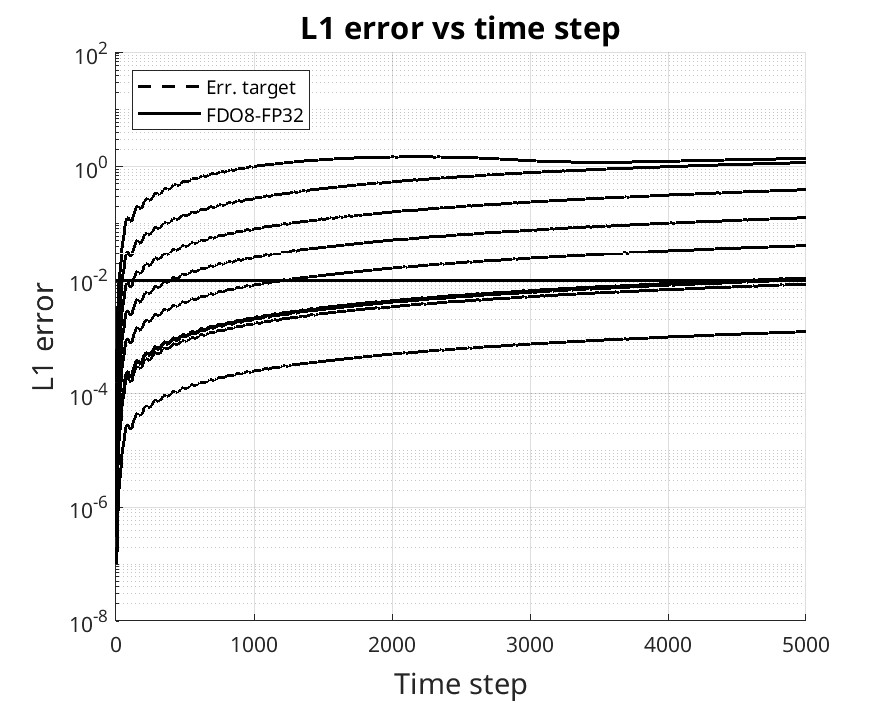
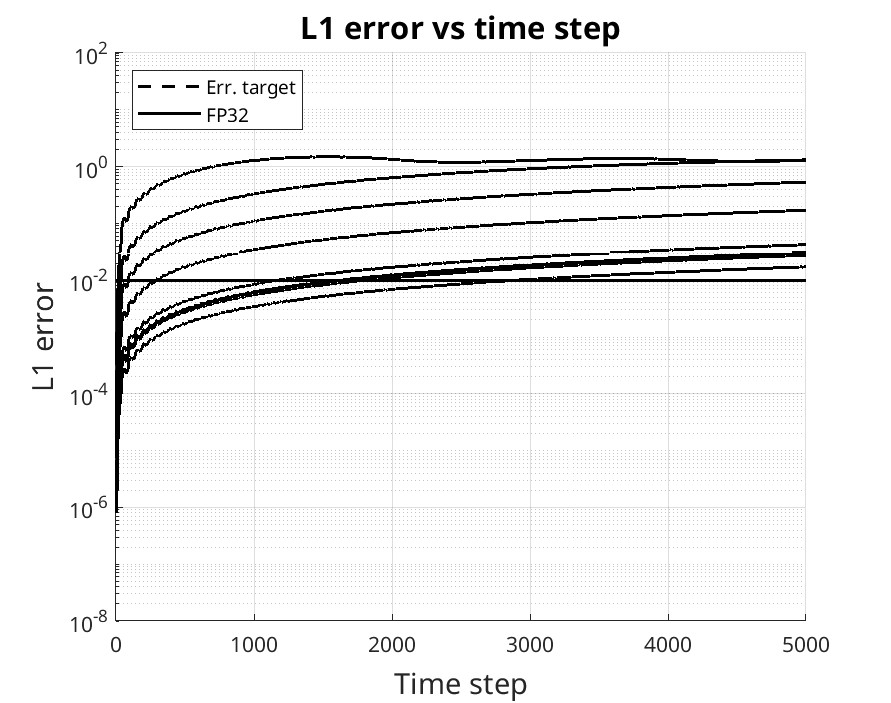
added env variable HPCSCAN_CUSTOM_OPT

diff --git a/script/testCase_Propa/paramAnalysis2/plotError.m b/script/testCase_Propa/paramAnalysis2/plotError.m
@@ -56,6 +56,30 @@ switch(icase)
         NAME2 = 'FP32-16' ;
         COLOR2 = '--r' ;
 
+    case 6
+        FILENAME1 = 'fp32.propa.paramAnalysis2.ouessant.2026-08-20.log' ;
+        NAME1 = 'FP32' ;
+        COLOR1 = '-k' ;
+        FILENAME2 = 'none' ;
+        NAME2 = 'none' ;
+        COLOR2 = '-r' ;
+
+    case 7
+        FILENAME1 = 'fp32.propa.paramAnalysis2.ouessant.2026-08-20.log' ;
+        NAME1 = 'FP32' ;
+        COLOR1 = '-k' ;
+        FILENAME2 = 'fp16.fp32.propa.paramAnalysis2.ouessant.2026-08-20.log' ;
+        NAME2 = 'FP16-32' ;
+        COLOR2 = '-r' ;
+
+    case 8
+        FILENAME1 = 'fp32.propa.paramAnalysis2.ouessant.2026-08-20.log' ;
+        NAME1 = 'FP32' ;
+        COLOR1 = '-k' ;
+        FILENAME2 = 'custom_mp.propa.paramAnalysis2.ouessant.2026-08-20.log' ;
+        NAME2 = 'BlockMP' ;
+        COLOR2 = '-b' ;
+
 end
 
 MIN_ERR = 1.e-8 ;

diff --git a/script/testCase_Propa/paramAnalysis2/buildConfigScript.py b/script/testCase_Propa/paramAnalysis2/buildConfigScript.py
@@ -1,7 +1,7 @@
 
 script_template = 'templateScript.sh'
 
-n1Range=[200,250,300,350,400,500,600,700,800,900,1000]
+n1Range=[200,256,300,348,400,500,600,700,800,900,1000]
 #fdOrderRange=['2','4','6','8','10','12','14','16']
 fdOrderRange=['8']
 tmax='500.0'
@@ -11,11 +11,11 @@ dt='0.1'
 nmode='150'
 xmax=1000
 #dim='3'
-dim='1'
+dim='2'
 ntry='1'
 #ratioCFLRange=['1.0','0.5','0.2','0.1']
 ratioCFLRange=['1.0']
-#testModeRange=['NEC_SCA']
+#testModeRange=['Custom']
 testModeRange=['Baseline']
 #propagatorRange=['Ac2Standard','Ac2SplitComp']
 propagatorRange=['Ac2Standard']

diff --git a/src/version_hpcscan.h b/src/version_hpcscan.h
@@ -1,4 +1,4 @@
-const char HPCSCAN_GIT_COMMIT[] = "commit 930d685a61f74539431f9999adcac6c02bd95046" ;
+const char HPCSCAN_GIT_COMMIT[] = "commit 0365873697cb4f420a9d17a8e3a14a912968ec4c" ;
 const char HPCSCAN_GIT_AUTHOR[] = "Author: vincent <vincent.etienne@algodoers.com>" ;
-const char HPCSCAN_GIT_DATE[] = "Date:   Wed Aug 19 09:10:27 2026 +0200" ;
-const time_t HPCSCAN_COMPILE_DATE = 1787131425 ;
+const char HPCSCAN_GIT_DATE[] = "Date:   Wed Aug 19 11:24:48 2026 +0200" ;
+const time_t HPCSCAN_COMPILE_DATE = 1787218833 ;

diff --git a/README.md b/README.md
@@ -129,9 +129,9 @@ v1.2         | **Energy consumption and half-precision support** <li> Access har
 Test case name | Description | Remark
 ------------ | ----------- | ------------
 Comm         | **MPI communications bandwidth** <ul><li>Uni-directional (Half-duplex with MPI_Send) proc1 -> proc2</li><li>Bi-directional (Full-duplex with MPI_Sendrecv) proc1 <-> proc2</li><li>Grid halos exchange (MPI_Sendrecv) all procs <-> all procs</li></ul> | <p>This case requires at least 2 MPI processes <br> Depending on the placement of MPI processes, intra-node or inter-node bandwidth can be measured <br> Width of halos depends on the selected FD stencil order <br> :arrow_right: **Measures GPoints/s and GBytes/s** </p>
-FD_D1        | **Finite-difference <br> 1st derivative <br> Error and computation bandwidth** <ul><li>  $U={\partial}/{\partial x_1} (V)$ </li> <li> $U={\partial}/{\partial x_2} (V)$ </li>  <li> $U={\partial}/{\partial x_3} (V)$ </li>  </ul> | <p>   Accuracy depends on the selected FD order (from to 2 to 16), grid sampling and number of periods in the sine function used to compute the derivative <br> :arrow_right: **Computes error against analytical solution** <br> :arrow_right: **Measures GPoints/s, GBytes/s and GFlop/s** </p> 
-FD_D2        | **Finite-difference <br> 2nd derivative <br> Error and computation bandwidth** <ul><li>  $U={\partial^2}/{\partial x_1^2} (V)$ </li> <li> $U={\partial^2}/{\partial x_2^2} (V)$ </li>  <li> $U={\partial^2}/{\partial x_3^2} (V)$ </li> <li> $U= \Delta (V)$ </li> </ul> | <p>  Same features as above </p> 
-Grid         | **Grid operations bandwidth** <ul> <li> Fill grid U with constant value </li> <li> Max. diff. between grids U and V </li> <li> L1 norm between U and V </li> <li> Sum of abs(U) </li> <li> Sum of abs(U-V) </li> <li> Max. of U </li> <li> Min. of U </li> <li> Complex grid manipulation (wavefield update in propagator) U = 2 x V - U + C x L </li> <li> Boundary condition (free surface) at all edges of U </li> </ul> | <p>Operations on grids include manipulation of multi-dimensional indexes and specific portions of the grids (for instance, excluding halos) <br> :arrow_right: **Validation against reference grids filled with predefined values** <br> :arrow_right: **Measures GPoints/s and GBytes/s** <p>
+FD_D1        | **Finite-difference - 1st derivative <br> Accuracy and computation bandwidth** <ul><li>  $U={\partial}/{\partial x_1} (V)$ </li> <li> $U={\partial}/{\partial x_2} (V)$ </li>  <li> $U={\partial}/{\partial x_3} (V)$ </li>  </ul> | <p>   Accuracy depends on the selected FD order (from to 2 to 16), grid sampling and number of periods in the sine function used to compute the derivative <br> :arrow_right: **Computes error against analytical solution** <br> :arrow_right: **Measures GPoints/s, GBytes/s and GFlop/s** </p> 
+FD_D2        | **Finite-difference - 2nd derivative <br> Accuracy and computation bandwidth** <ul><li>  $U={\partial^2}/{\partial x_1^2} (V)$ </li> <li> $U={\partial^2}/{\partial x_2^2} (V)$ </li>  <li> $U={\partial^2}/{\partial x_3^2} (V)$ </li> <li> $U= \Delta (V)$ </li> </ul> | <p>  Same features as above </p> 
+Grid         | **Grid operations bandwidth** <ul> <li> Fill grid U with constant value </li> <li> Min. and max. of U </li> <li> Max. diff. between U and V </li> <li> $\sum \|U\|$ and $\sum \|U-V\|$ </li>   <li> $\frac{\sum \|U-V\|}{\sum \|U\|}$ (L1 norm between U and V) </li> <li> Add and multiply (wavefield update in propagator) $W = 2 T - U + \alpha V$ </li> <li> Mirror boundary condition at all grid edges </li> </ul> | <p>Operations on grids include selection of specific portions of the grids (for instance, excluding halos) <br>  :arrow_right: **Measures GPoints/s and GBytes/s** <p>
 Memory       | **Memory operations bandwidth** <ul> <li> Fill array A with constant value </li> <li> Copy array A = B </li> <li> Add 2 arrays A = B + C </li> <li> Multiply 2 arrays A = B * C </li> <li> Add 2 arrays and update array A = A + B </li> </ul>| <p> Conversely to Test Case Grid, operations are done on continuous memory arrays <br> This test case is similar to the Stream benchmark <br> :arrow_right: **Validation against reference grids filled with predefined values** <br> :arrow_right: **Measures GPoints/s and GBytes/s** <p>
 Modeling | **Acoustic wave modeling bandwidth** <p> Same features as for test case Propa except <ul> <li> Velocity model is read from file </li> <li> Source is a Ricker wavelet </li> <li> Ouput seismic traces and snapshots </li> </ul> | There is no accuray checking for this test case
 Propa        | **Acoustic wave propagator bandwidth** <ul> <li> 2nd order wave equation </li> <li> ${\partial^2}/{\partial t^2} (P)=c^2 \Delta (P)$ </li> <li> Domain size is 1 m in every dimension </li> <li> c is constant and equals to 1 m/s </li> <li> Free surface boundary condition is applied to all edges of the domain </li> <li> Wavefield is initialized at t=-dt and t=-2dt with a particular solution </li> </ul> | <p>Accuracy is checked against the multi-dimensional analytical solution (Eigen modes) of the wave equation<br>Number of modes can be parametrized differently in every dimension<br>Time step can be set arbitrarily or set to the stability condition<br>Dimension, grid size, and number of time steps can be set arbitrarily<br>Accuracy depends on the selected FD stencil order, the spatial grid sampling and the number of Eigen modes <br> :arrow_right: **Computes L1 Error against analytical solution** <br> :arrow_right: **Measures GPoints/s, GBytes/s and GFlop/s** </p> 
